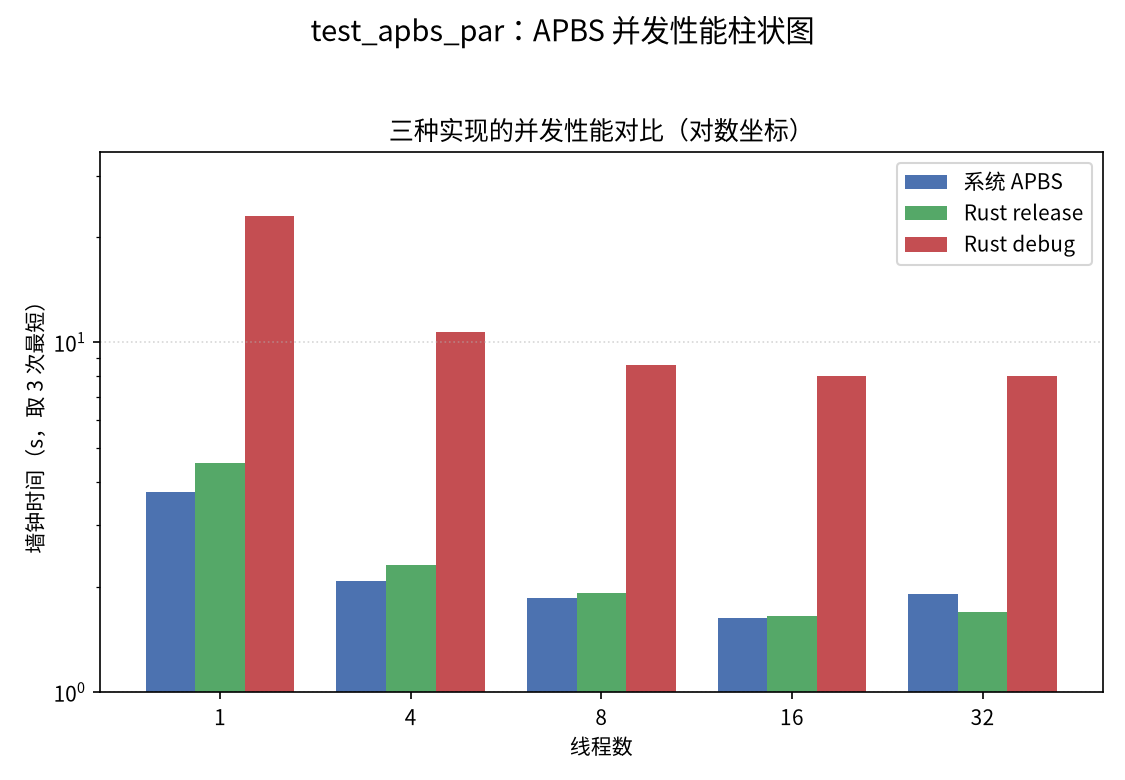
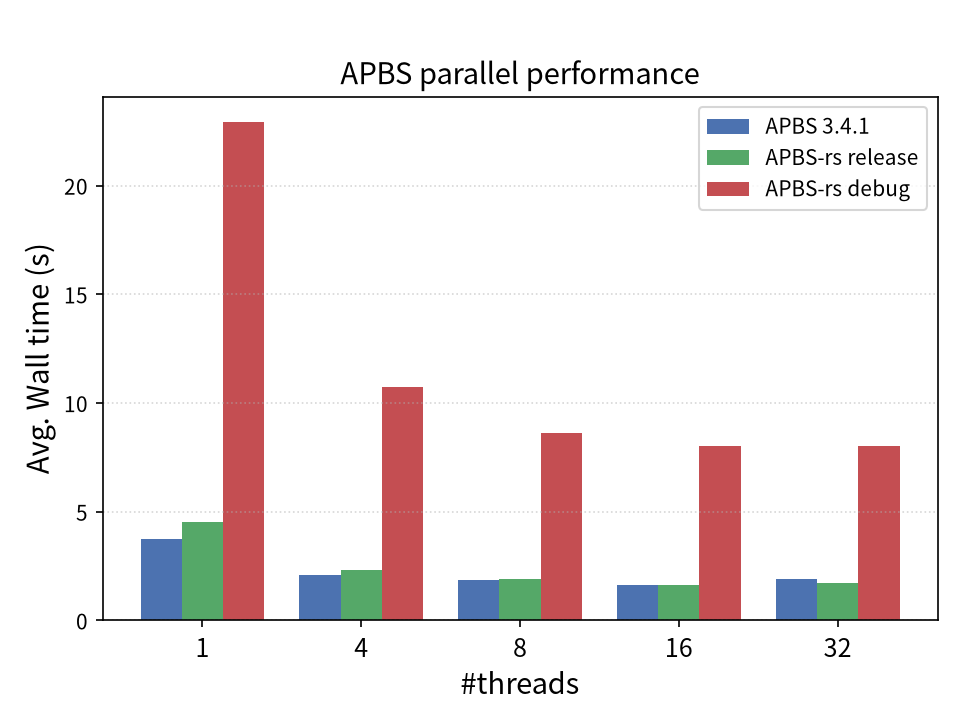
Change plot script

diff --git a/examples/test_apbs_par/bench_results/plot_summary.py b/examples/test_apbs_par/bench_results/plot_summary.py
@@ -23,9 +23,9 @@ with (ROOT / "summary.csv").open() as fh:
 threads = sorted(values)
 binaries = ["sys", "release", "debug"]
 labels = {
-    "sys": "系统 APBS",
-    "release": "Rust release",
-    "debug": "Rust debug",
+    "sys": "APBS 3.4.1",
+    "release": "APBS-rs release",
+    "debug": "APBS-rs debug",
 }
 colors = {
     "sys": "#4C72B0",
@@ -33,7 +33,7 @@ colors = {
     "debug": "#C44E52",
 }
 
-fig, ax = plt.subplots(figsize=(7.5, 5.2))
+fig, ax = plt.subplots(figsize=(6.4, 4.8))
 bar_width = 0.26
 
 positions = range(len(threads))
@@ -43,16 +43,15 @@ for offset, name in enumerate(binaries):
     ax.bar(xs, ys, width=bar_width, label=labels[name], color=colors[name])
 
 ax.set_xticks(list(positions))
-ax.set_xticklabels([str(t) for t in threads])
-ax.set_xlabel("线程数")
-ax.set_ylabel("墙钟时间（s，取 3 次最短）")
-ax.set_title("三种实现的并发性能对比（对数坐标）")
-ax.set_yscale("log")
-ax.set_ylim(bottom=1.0, top=35)
+ax.set_xticklabels([str(t) for t in threads], fontsize=12)
+ax.set_xlabel("#threads", fontsize=14)
+ax.set_ylabel("Avg. Wall time (s)", fontsize=14)
+# ax.set_yscale("log")
+# ax.set_ylim(bottom=1.0, top=35)
 ax.grid(axis="y", linestyle=":", alpha=0.5)
 ax.legend(loc="upper right")
 
-fig.suptitle("test_apbs_par：APBS 并发性能柱状图", fontsize=14)
+plt.title("APBS parallel performance", fontsize=14)
 fig.tight_layout(rect=(0, 0, 1, 0.95))
 out = ROOT / "summary_bar.png"
 fig.savefig(out, dpi=150)
